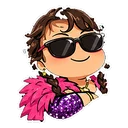
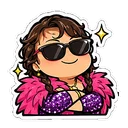
Cécile : planche Star redécoupée (liserés refermés, stickers soudés séparés) avec le nouvel outil closed-sheet.mjs

diff --git a/tools/slice-chibis/README.md b/tools/slice-chibis/README.md
@@ -43,3 +43,8 @@ Une tenue dont le dossier est incomplet (moins de 12 expressions) est ignorée a
 Ajouter l'id dans `src/data/tenues.ts` **et** une ligne dans `supabase/features/tenues.sql`
 (`insert into public.tenues … on conflict do update`), puis `npm run sql` et recoller `supabase/install.sql`.
 Le script avertit si la tenue d'une planche est absente de `src/data/tenues.ts`.
+
+## Planches récalcitrantes : `closed-sheet.mjs`
+
+Quand `free-sheet.mjs` rate une planche 4×3 sur fond noir (liserés blancs ouverts : le fond « fuit » dans le dessin ; stickers soudés), même en `split: 'grid'` :
+`node tools/slice-chibis/closed-sheet.mjs <planche.png> <slug> <dossier> [--preview]`. Le liseré blanc est refermé avant d'enlever le fond, les blocs soudés sont coupés à la ligne la plus fine, puis les poches de fond enfermées et les éclats sont retirés. Ordre fixe V3 (joie … champion). Retirer ensuite la planche de la config pour qu'un `free-sheet` ne l'écrase pas (ex. Cécile Star).
